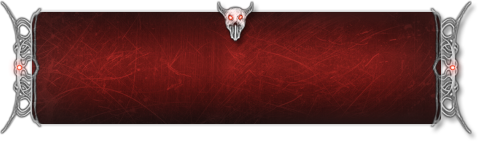
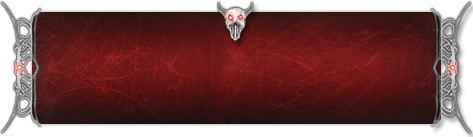
Fix background image of  audio player

diff --git a/src/style/skin.css b/src/style/skin.css
@@ -1,19 +1,21 @@
 
 .audio-player-skin {
  
-    min-height: 100px;
-    height: 100px;
-    width: 330px;
+    min-height: 137px;
+    height: 137px;
+    min-width: 473px;
+    max-width: 473px;
     background: transparent;
     font-family: arial;
     color: white;
     display: flex;
     position: relative;
-    padding: 0px 30px;
-    border: 30px solid transparent;
-    border-image: url('~assets/interface/buttonNormal.png') 20 fill stretch;
+    padding: 0px 60px;
+
+    background-image: url('~assets/interface/buttonNormal.png') ;
     background-repeat: no-repeat;
     background-size: contain;
+    background-position: center;
     font-size: 0.75em;
     overflow: hidden;
     flex-direction: column;
@@ -24,8 +26,8 @@
   position: absolute;
   display: flex;
   width: 100%;
-  top: 0;
-  right: 3px;
+  top: 20px;
+  right: 0;
   justify-content: center;
   gap: 30px;
 
@@ -36,8 +38,9 @@
 .timeline {
   
   background: white;
-  width: 100%;
+  width: 80%;
   height: 20px;
+  margin: 0 auto;
   position: relative;
   cursor: pointer;
   box-shadow: 0 2px 10px 0 #0008;
@@ -60,9 +63,9 @@
   transition: 0.25s;
 }
  .controls {
-  margin-top: 10px;
+  margin-top: 5px;
   display: flex;
-  justify-content: space-between;
+  justify-content: space-around;
   align-items: stretch;
   padding: 0 20px;
 }
@@ -74,7 +77,7 @@
  .toggle-play.play {
   cursor: pointer;
   position: relative;
-  left: 3px;
+  left: 5px;
   height: 0;
   width: 0;
   border: 7px solid #0000;
@@ -92,7 +95,7 @@
  .toggle-play.pause:before {
   position: absolute;
   top: 0;
-  left: 2px;
+  left: 5px;
   background: white;
   content: "";
   height: 15px;
@@ -101,7 +104,7 @@
  .toggle-play.pause:after {
   position: absolute;
   top: 0;
-  right: 5px;
+  right: 0px;
   background: white;
   content: "";
   height: 15px;
@@ -115,7 +118,7 @@
   font-weight: 700;
   position: absolute;
   left: 50%;
-  transform: translateX(-54%);
+  transform: translateX(-49%);
   display: flex;
 }
  .time > * {
